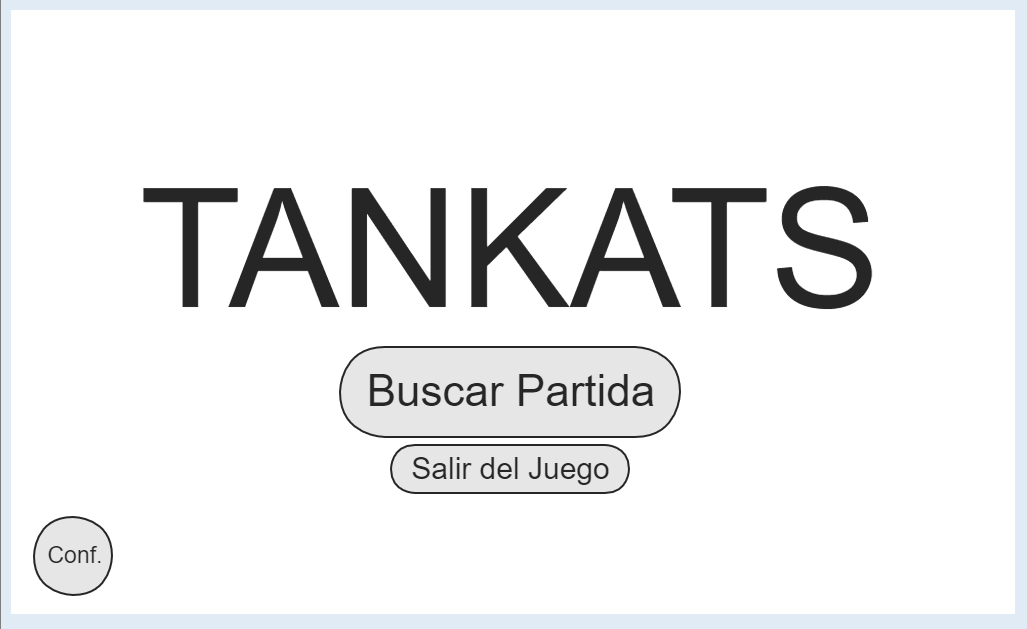
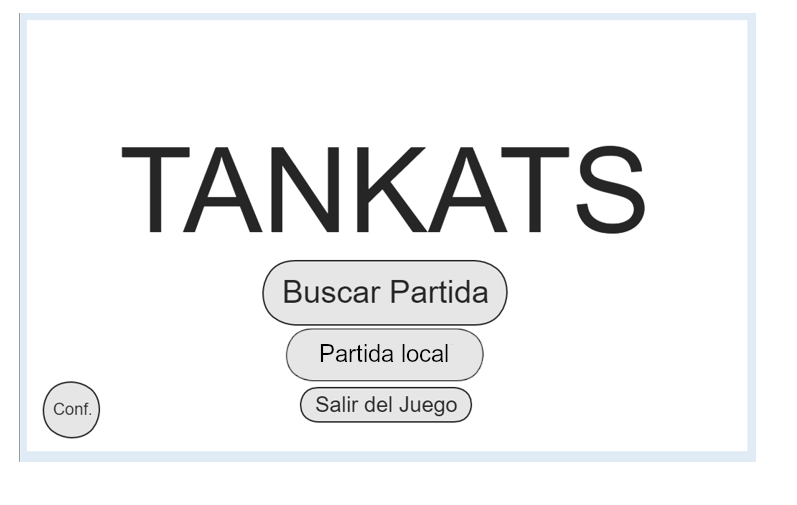
Cambios GDD para que sea local

Changed region(s): [[0.0, 0.0, 1.0, 1.0], [0.1205, 0.2673, 0.8733, 0.8614]]

diff --git a/README.md b/README.md
@@ -59,7 +59,7 @@ En esta sección se detallarán las mecánicas de Tankats. Se comentarán los pi
 Tankats es un juego de disparos con vista cenital, en el que los gatos, montados en tanques se enfrentarán en batallas 1v1. Con el disparo principal de sus tanques y las siguientes mejoras de armas los felinos tratan de acabar con la vida de su oponente. 
 Se comenzará en esquinas opuestas del nivel, con el mismo acceso a los diferentes *power-ups/power-downs* para cada uno de los jugadores. Con ingenio, se deberá aprovechar las herramientas que se puedan tener a favor para vencer al rival, y saber cómo evitar los desastres que puedan ser causados por el rival. Para que la partida finalice, se tendrá que acabar con las tres vidas del rival, provocando la pérdida de cada vida volver al punto de aparición y un pequeño tiempo de invencibilidad. Cuando estas 3 vidas se acaben, para quien se hayan acabado, habrá perdido, y viceversa.
 No se podrá poner pausa en medio de una partida.
-El jugador no puede conocer los *power-ups/power-downs* con los que cuenta el rival.
+El jugador, cuando juega online, no puede conocer los *power-ups/power-downs* con los que cuenta el rival.
 
 ### 2.3. Personajes 
 #### 2.3.1. Personajes jugables
@@ -107,16 +107,29 @@ Lista de colisiones que se producirán:
 
 
 #### 2.5.2. Controles 
-- Teclado: teclas “WASD” para el movimiento del tanque.
-- Ratón: 
-    - Movimiento para apuntar el cañón.
-    - Botón izquierdo para disparar.
+Online:
+-	Teclado: teclas “WASD” para el movimiento del tanque.
+-	Ratón: 
+-	Movimiento para apuntar el cañón.
+-	Botón izquierdo para disparar.
 
+Pantalla dividida:
+-	Teclado: 
+Jugador 1:
+Teclas “WASD” para el movimiento del tanque
+Teclas “F” y “G” para girar el cañon en sentido antihorario y horario respectivamente
+ESPACIO para disparar
+
+Jugador 2:
+Flechas de dirección para el movimiento del tanque
+Teclas “I” y “P” para girar el cañon en sentido antihorario y horario respectivamente
+“O” para disparar
 
 
 ## Interfaz 
 - **Menú principal:** 
     - Buscar partida
+    - Partida local
     - Configuración.
     - Salir del juego
 - **Selección de personajes:** 
@@ -158,7 +171,7 @@ El siguiente diagrama de flujo muestra las pantallas posibles y los accesos entr
 ![alt text](https://github.com/Joymg/JER2021-MOS-10/blob/main/GDD-Images/Flowchat.png?raw=true)
 
 ### 3.2. Menu principal
-En el menú principal hay un botón de buscar partida, el cual inicia una partida con todo lo que ello conlleva (elegir personaje, comenzar la partida, jugar etc),  otro de ajustes y un último botón con una confirmación necesaria para salir del juego.
+En el menú principal hay un botón de buscar partida, el cual inicia una partida con todo lo que ello conlleva (elegir personaje, comenzar la partida, jugar etc), uno de partida local, otro de ajustes y un último botón con una confirmación necesaria para salir del juego.
 ![alt text](https://github.com/Joymg/JER2021-MOS-10/blob/main/GDD-Images/Mainscreen.png?raw=true)
 
 ### 3.3. Créditos
@@ -166,7 +179,7 @@ Animada pantalla en la que se pueden ver los créditos del juego, así como info
 ![alt text](https://github.com/Joymg/JER2021-MOS-10/blob/main/GDD-Images/Credits.png?raw=true)
 
 ### 3.4. Selección de partida
-En la pantalla de selección de personaje se podrá elegir modo de partida, emparejado con gente aleatoria que esté buscando partida o creando una partida o buscándola con un código.
+En la pantalla de selección de personaje se podrá elegir modo de partida, emparejado con gente aleatoria que esté buscando partida o creando una partida o buscándola con un código. En el caso de que sea una partida local, saltará directamente la pantalla de selección de personajes.
 
 ### 3.5. Selección de personaje
 En la pantalla de selección de personaje se podrá elegir el gatito con el que se va a jugar para diferenciarse de forma gráfica del rival y que no haya lugar a equivocaciones.
